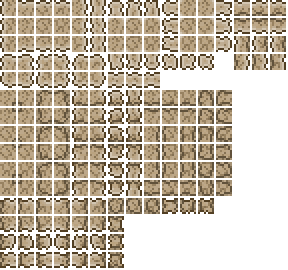
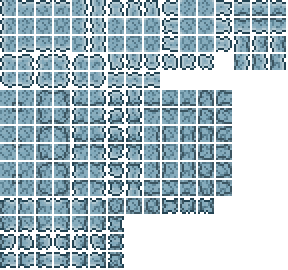
blissand blue

diff --git a/recolor_backgrounds.py b/recolor_backgrounds.py
@@ -504,6 +504,38 @@ def recolor_glowing_radiant_shard(image):
     result.putdata(new_pixels)
     return result
 
+def recolor_blissand(image):
+    """Blissand variants: yellow/gold/tan -> baby blue"""
+    if image.mode != 'RGBA':
+        image = image.convert('RGBA')
+
+    pixels = list(image.getdata())
+    new_pixels = []
+
+    for r, g, b, a in pixels:
+        if a == 0:
+            new_pixels.append((r, g, b, a))
+            continue
+
+        h, l, s = colorsys.rgb_to_hls(r/255, g/255, b/255)
+
+        # Skip very low saturation (greys)
+        if s < 0.05:
+            new_pixels.append((r, g, b, a))
+            continue
+
+        # Yellow/gold/tan/orange range (hue ~0.05-0.2) -> baby blue (hue ~0.55)
+        if 0.02 < h < 0.22:
+            h = 0.55  # Baby blue hue
+            # Keep the same lightness and saturation for natural look
+
+        r2, g2, b2 = colorsys.hls_to_rgb(h, l, s)
+        new_pixels.append((int(r2*255), int(g2*255), int(b2*255), a))
+
+    result = Image.new('RGBA', image.size)
+    result.putdata(new_pixels)
+    return result
+
 def recolor_desert_mapbg(image):
     """DesertMapBackground: cyans (not blues) -> bright yellow"""
     if image.mode != 'RGBA':
@@ -813,6 +845,71 @@ def main():
         print("  Done!")
     else:
         print(f"  WARNING: {item_path} not found")
+
+    # Process Blissand tiles (yellow -> baby blue)
+    blissand_tiles = [
+        "Blissand.png",
+        "HardenedBlissand.png",
+        "Blissandstone.png"
+    ]
+    for tile_file in blissand_tiles:
+        tile_path = os.path.join(tiles_dir, tile_file)
+        if os.path.exists(tile_path):
+            print(f"Processing {tile_file}...")
+            img = Image.open(tile_path)
+            recolored = recolor_blissand(img)
+            recolored.save(tile_path)
+            print("  Done!")
+        else:
+            print(f"  WARNING: {tile_path} not found")
+
+    # Process Blissand items
+    blissand_items = [
+        "Blissand.png",
+        "HardenedBlissand.png",
+        "Blissandstone.png"
+    ]
+    for item_file in blissand_items:
+        item_path = os.path.join(items_dir, item_file)
+        if os.path.exists(item_path):
+            print(f"Processing {item_file} item...")
+            img = Image.open(item_path)
+            recolored = recolor_blissand(img)
+            recolored.save(item_path)
+            print("  Done!")
+        else:
+            print(f"  WARNING: {item_path} not found")
+
+    # Process Blissand walls
+    walls_dir = os.path.join(os.path.dirname(os.path.abspath(__file__)),
+                             "Content", "Walls", "Rapture")
+    blissand_walls = [
+        "HardenedBlissandWall.png",
+        "BlissandstoneWall.png"
+    ]
+    for wall_file in blissand_walls:
+        wall_path = os.path.join(walls_dir, wall_file)
+        if os.path.exists(wall_path):
+            print(f"Processing {wall_file}...")
+            img = Image.open(wall_path)
+            recolored = recolor_blissand(img)
+            recolored.save(wall_path)
+            print("  Done!")
+        else:
+            print(f"  WARNING: {wall_path} not found")
+
+    # Process Blissand projectile
+    proj_dir = os.path.join(os.path.dirname(os.path.abspath(__file__)),
+                            "Content", "Projectiles", "Rapture")
+    proj_path = os.path.join(proj_dir, "BlissandProjectile.png")
+    if os.path.exists(proj_path):
+        print(f"Processing BlissandProjectile.png...")
+        img = Image.open(proj_path)
+        recolored = recolor_blissand(img)
+        recolored.save(proj_path)
+        print("  Done!")
+    else:
+        print(f"  WARNING: {proj_path} not found")
 
     print("\nComplete!")
 

diff --git a/Content/Tiles/Rapture/HardenedBlissand.cs b/Content/Tiles/Rapture/HardenedBlissand.cs
@@ -35,8 +35,8 @@ namespace VanillaPlus.Content.Tiles.Rapture
             Main.tileMerge[Type][ModContent.TileType<Blissand>()] = true;
             Main.tileMerge[Type][ModContent.TileType<Blissandstone>()] = true;
 
-            // Color: Slightly darker golden sand
-            AddMapEntry(new Color(210, 195, 160));
+            // Color: Slightly darker baby blue sand
+            AddMapEntry(new Color(160, 195, 210));
 
             DustType = DustID.Sand;
 

diff --git a/Content/Tiles/Rapture/Blissandstone.cs b/Content/Tiles/Rapture/Blissandstone.cs
@@ -36,8 +36,8 @@ namespace VanillaPlus.Content.Tiles.Rapture
             Main.tileMerge[Type][ModContent.TileType<Blissand>()] = true;
             Main.tileMerge[Type][ModContent.TileType<HardenedBlissand>()] = true;
 
-            // Color: Rich golden sandstone
-            AddMapEntry(new Color(195, 175, 140));
+            // Color: Baby blue sandstone
+            AddMapEntry(new Color(140, 175, 195));
 
             DustType = DustID.Sand;
 

diff --git a/Content/Tiles/Rapture/Blissand.cs b/Content/Tiles/Rapture/Blissand.cs
@@ -38,8 +38,8 @@ namespace VanillaPlus.Content.Tiles.Rapture
             RaptureIDs.Sets.Rapture[Type] = true;
             RaptureIDs.Sets.IsNaturalRaptureTile[Type] = true;
 
-            // Color: Light golden sand
-            AddMapEntry(new Color(230, 215, 180));
+            // Color: Light baby blue sand
+            AddMapEntry(new Color(180, 215, 230));
 
             MineResist = 0.5f;
             DustType = DustID.Sand;

diff --git a/Content/Walls/Rapture/BlissandstoneWall.cs b/Content/Walls/Rapture/BlissandstoneWall.cs
@@ -25,7 +25,7 @@ namespace VanillaPlus.Content.Walls.Rapture
             // Rapture-specific sets
             RaptureIDs.Sets.RaptureWall[Type] = true;
 
-            AddMapEntry(new Color(195, 175, 140));
+            AddMapEntry(new Color(140, 175, 195));
 
             DustType = DustID.Sand;
         }

diff --git a/Content/Walls/Rapture/HardenedBlissandWall.cs b/Content/Walls/Rapture/HardenedBlissandWall.cs
@@ -25,7 +25,7 @@ namespace VanillaPlus.Content.Walls.Rapture
             // Rapture-specific sets
             RaptureIDs.Sets.RaptureWall[Type] = true;
 
-            AddMapEntry(new Color(210, 195, 160));
+            AddMapEntry(new Color(160, 195, 210));
 
             DustType = DustID.Sand;
         }
